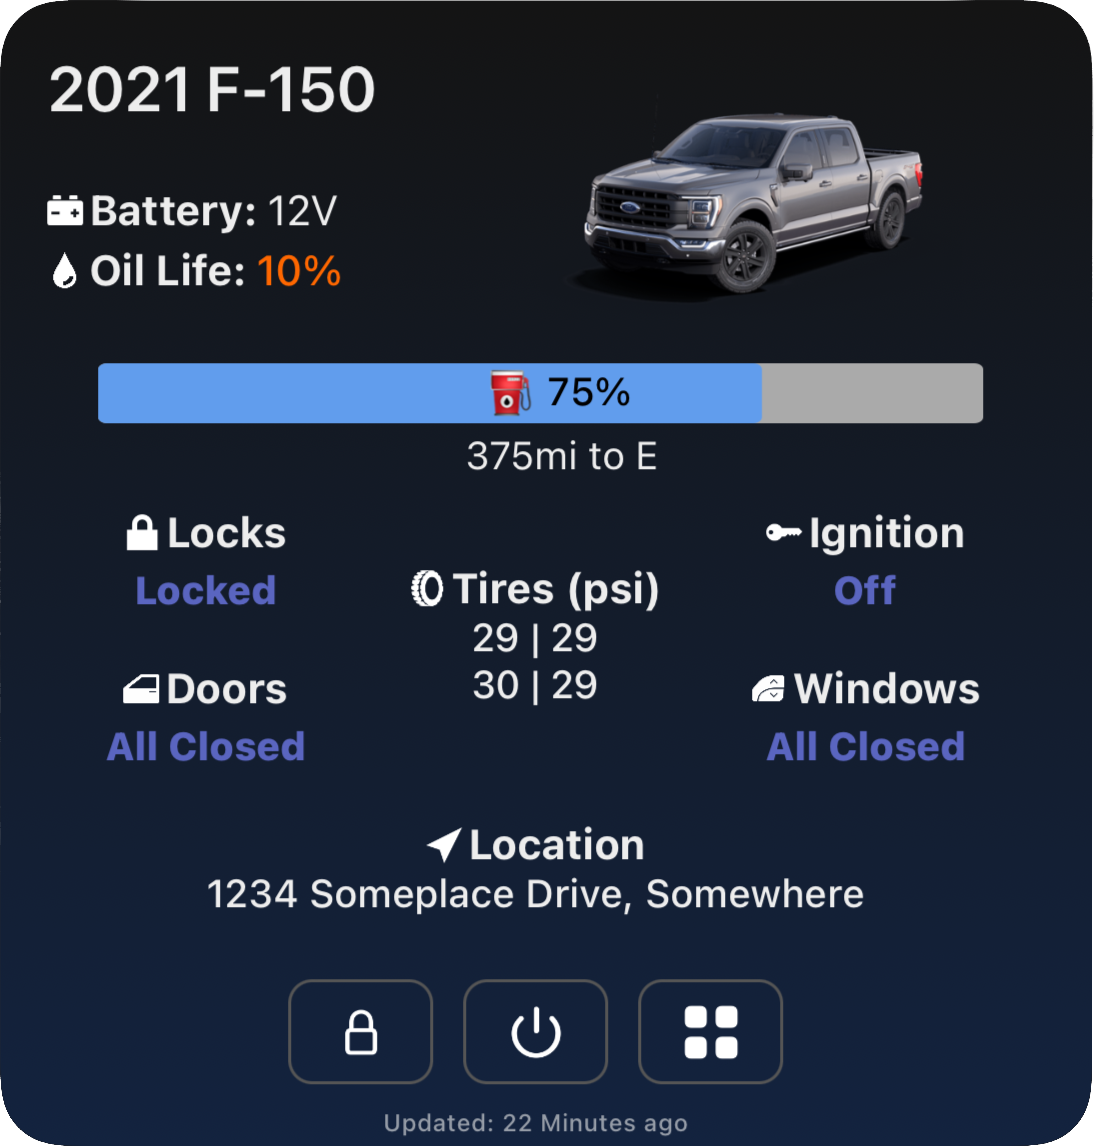
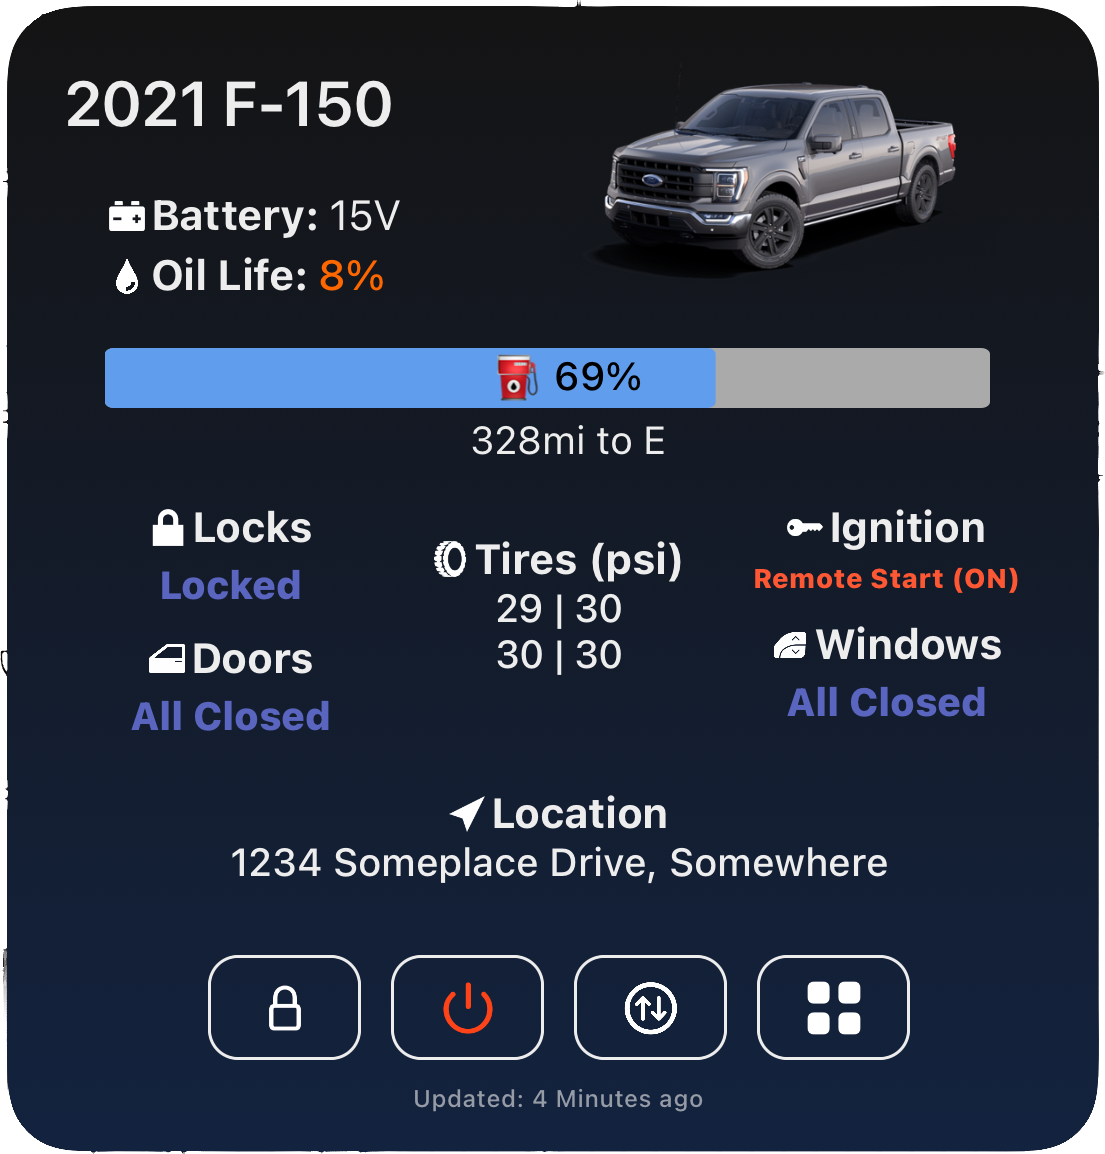
syncing

diff --git a/Modules/FPW_Widgets_Small.js b/Modules/FPW_Widgets_Small.js
@@ -185,13 +185,15 @@ module.exports = class FPW_Widgets_Small {
             console.log(`widgetSizes: ${JSON.stringify(widgetSizes)}`);
             const { width, height } = widgetSizes;
             let paddingTop = Math.round(height * 0.08);
-            let paddingLeft = Math.round(width * 0.04);
+            let paddingLeft = Math.round(width * 0.07);
             console.log(`padding | Top: ${paddingTop} | Left: ${paddingLeft}`);
             // vData.deepSleepMode = true;
             // vData.firmwareUpdating = true;
             const hasStatusMsg = await this.hasStatusMsg(vData);
 
-            let bodyContainer = await this.createRow(widget, { '*setPadding': [0, 0, 0, 0] });
+            const wContent = await this.createColumn(widget, { '*setPadding': [paddingTop, paddingLeft, paddingTop, 0] });
+
+            let bodyContainer = await this.createRow(wContent, { '*setPadding': [0, 0, 0, 0] });
 
             //*****************
             //* First column
@@ -242,13 +244,13 @@ module.exports = class FPW_Widgets_Small {
             //* Refresh and error
             //*********************
             if (hasStatusMsg) {
-                let statusRow = await this.createRow(widget, { '*layoutHorizontally': null, '*setPadding': [0, 0, 0, 0] });
+                let statusRow = await this.createRow(wContent, { '*layoutHorizontally': null, '*setPadding': [0, 0, 0, 0] });
                 await this.createStatusElement(statusRow, vData, 1);
             } else {
-                widget.addSpacer();
+                wContent.addSpacer();
             }
             // Displays the Last Vehicle Checkin Time Elapsed...
-            let timestampRow = await this.createRow(widget, { '*setPadding': [3, 0, 5, paddingLeft], '*bottomAlignContent': null });
+            let timestampRow = await this.createRow(wContent, { '*setPadding': [3, 0, 0, 0] });
             await this.createTimeStampElement(timestampRow, vData, 'center', 8);
         } catch (e) {
             await this.FPW.logger(`detailedWidget(small) Error: ${e}`, true);

diff --git a/Fordpass Widget.js b/Fordpass Widget.js
@@ -108,9 +108,9 @@ const widgetConfig = {
     testMode: false, // Use cached data for quick testing of widget and menu viewing
     useBetaModules: true, // Forces the use of the modules under the beta branch of the FordPass-scriptable GitHub repo.
     useLocalModules: false, // Stores and loads modules from local storage instead of iCloud.  disable to access the module files under the scriptable folder in iCloud Drive.
-    useLocalLogs: true, // Stores logs locally for debugging purposes. Enable to see the logs in the Scriptable Folder in iCloud Drive
+    useLocalLogs: false, // Stores logs locally for debugging purposes. Enable to see the logs in the Scriptable Folder in iCloud Drive
     useLocalFiles: true, // Use iCloud files for storing data
-    ignoreHashCheck: false, // Enable this when you are editing modules and don't want the script to validate the hash for the file and overwrite the file.
+    ignoreHashCheck: true, // Enable this when you are editing modules and don't want the script to validate the hash for the file and overwrite the file.
     clearKeychainOnNextRun: false, // false or true
     clearFileManagerOnNextRun: false, // false or true
     showTestUIStuff: false,
@@ -502,7 +502,7 @@ class Widget {
             this.logError(`generateWidget() Error: ${e}`);
         }
         widget.setPadding(0, 5, 0, 1);
-        widget.refreshAfterDate = new Date(Date.now() + 1000 * 240); // Update the widget every 5 minutes from last run (this is not always accurate and there can be a swing of 1-5 minutes)
+        widget.refreshAfterDate = new Date(Date.now() + 1000 * 300); // Update the widget every 5 minutes from last run (this is not always accurate and there can be a swing of 1-5 minutes)
         Script.setWidget(widget);
         this.logInfo(`Created Widget(${size})...`);
         return widget;
